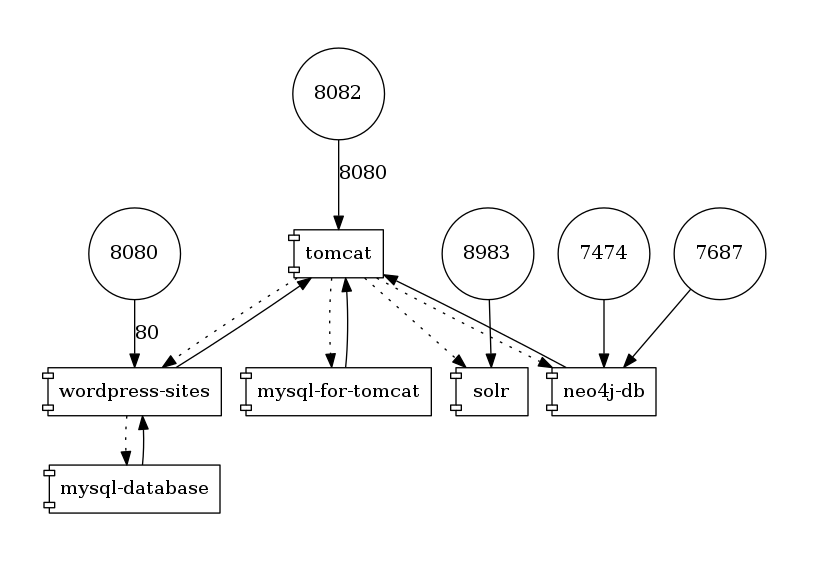
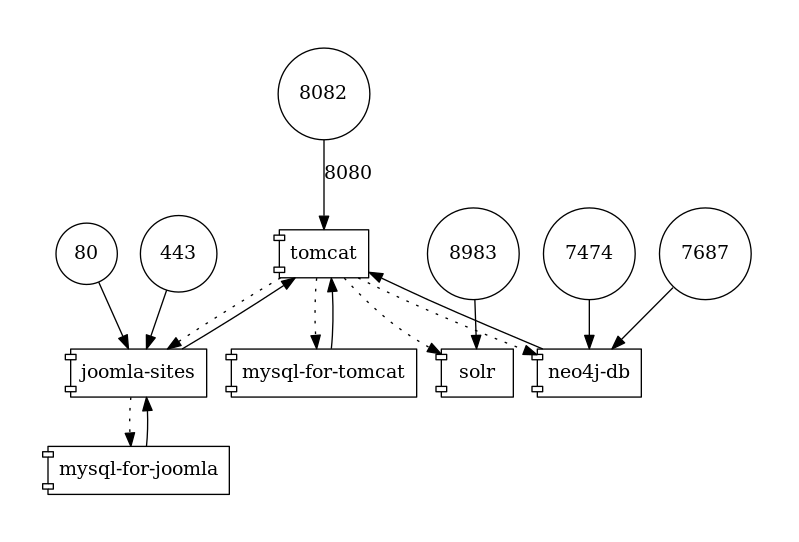
Update README and related images

diff --git a/README.md b/README.md
@@ -5,11 +5,9 @@
 - [Overview](#overview)
 - [Details](#details)
 - [Setup](#set-up)
-- [Understanding Workflow](#understanding-workflow)
-- [How to run](#how-to-run)
+- [Bulding the docker images](#Bulding-the-docker-images)
 - [How to use](#how-to-use)
-- [Configuring custom passwords](#configuring-custom-passwords)
-- [Troubleshooting](#troubleshooting)
+- [Configuration](#configuration)
 
 ## Overview
 
@@ -25,44 +23,29 @@ The graphs on this page were generated using [docker-compose-viz](https://github
 
 This project builds up a reactome server with all the required java applications inside docker containers and deploys them. A detailed view of structure of the project is shown in the image below. This image describes how files on the host are mapped inside the container.
 
-<div align="center">
-  <img src="./documentation-images/all-services.png" width="100%"/>
-</div></br>
+![All services - detailed view](./documentation-images/all-services.png)
 
 The graphical representation of each internal service is shown below
 
-<div align="center">
-  <img src="./documentation-images/tomcat.png" width="15%"/>
+Tomcat
+![Tomcat](./documentation-images/tomcat.png)
 
-  <img src="./documentation-images/wordpress-sites.png" width="15%"/>
+Joomla
+![Joomla](./documentation-images/joomla.png)
 
-  <img src="./documentation-images/mysql-for-wordpress.png" width="15%"/>
+MySQL (For Tomcat and Joomla)
+![MySQL for Tomcat and Joomla](./documentation-images/MySQL_DBs.png)
 
-  <img src="./documentation-images/mysql-for-tomcat.png" width="15%"/>
+Solr
+![Solr](./documentation-images/solr.png)
 
-  <img src="./documentation-images/solr.png" width="15%"/>
-
-  <img src="./documentation-images/neo4j-db.png" width="15%"/>
-
-
-</div>
-
-This project includes the [Reactome/Release](https://github.com/reactome/Release/) repository as a submodule. The website part and perl scripts for the server are derived from there. The Java applications required by Reactome are built from following repositories:
-
-1. [Curator Tool](https://github.com/reactome/CuratorTool)
-2. [Pathway Exchange](https://github.com/reactome/Pathway-Exchange)
-3. [RESTfulAPI](https://github.com/reactome/RESTfulAPI)
-4. [Pathway Browser](https://github.com/reactome-pwp/browser)
-5. [Diagram Exporter](https://github.com/reactome-pwp/diagram-exporter)
-6. [Content Service](https://github.com/reactome/content-service)
-7. [Data Content](https://github.com/reactome/data-content)
-8. [Search Core](https://github.com/reactome/search-core)
-9. [Analysis Tools](https://github.com/reactome/AnalysisTools)
-10. [Interactors Core](https://github.com/reactome-pwp/interactors-core)
-
+Neo4j
+![Neo4j](./documentation-images/neo4j-db.png)
 
 
 ## Set Up
+
+Before you can run this project, you need to [install docker](https://docs.docker.com/install/), then [install docker-compose](https://docs.docker.com/compose/install/), and then [install git](https://git-scm.com/book/en/v2/Getting-Started-Installing-Git) on your system.
 
 Begin with cloning the repository along with its submodule using:
 
@@ -78,117 +61,86 @@ cd container
 git submodule update --init --recursive
 ```
 
-Before you can run this project, you need to [install docker](https://docs.docker.com/engine/installation/), [install docker-compose](https://docs.docker.com/compose/install/), and [install git](https://git-scm.com/book/en/v2/Getting-Started-Installing-Git) on your system. To make this easier, an installation script for these tools is provided as [prereqs-ubuntu.sh](https://github.com/reactome/container/blob/master/prereqs-ubuntu.sh). This is a modified version of a script provided by [hyperledger/composer/prereqs-ubuntu.sh](https://hyperledger.github.io/composer/prereqs-ubuntu.sh). It can be run as:
+## Bulding the docker images
 
+A number of docker images need to be built in order to run the Reactome services. Many images are used to compile applications or create data. The diagram below illustrates the relationships between these images, and their dependencies.
+
+![Dependencies](./documentation-images/build-dependencies.png)
+
+To build the docker images, use the [`build_all.sh`](./build_all.sh) script>
+
+```bash
+bash ./build_all.sh
 ```
-cd container
-./prereqs-ubuntu.sh
-```
 
-## Understanding Workflow
-
-The workflow of project works is described in following steps:
-
-1. Download data and archives: First, we need to get the data files ready. These are downloaded by `deploy.sh -d all` or `deploy.sh -u all`.
-2. When database is ready, we need to build Java applications by `deploy.sh -b all`.
-3. Now everything is ready, and we can now start the server using `deploy.sh -r`.
-
-These three steps can be combined in one command:
-
-```
-./deploy.sh -d all -b all -r
-```
+This will build all of the intermediate images which create data or Java applications, as well as the final images which will be run as a part of your Reactome system.
 
 ## How to run
 
-The first time you run this tool, you will need to download the database files and build all the applications before we run the server. All this is managed by the `deploy.sh` script. You may just execute the given command if you are running this project for the first time:
+After all images have been built successfully, use docker-compose to create a running Reactome system:
 
-```
-./deploy.sh -d all -b all -r
-```
-
-The above command will download all database files and then build all the applications. When using this script for the first time, users are must use `-b all` to build all the applications, since some applications are dependent on others. After that users may select individual applications to build using `select` argument with `-b` flag.
-
-#### Flags used with `deploy.sh`
-
-The `./deploy.sh` script can be run with single or multiple or no flags. The usage of flags is described below:
-
- - `-d` or `--download` to Download database files. It will remove old database files (if present) and download new files from remote server. This will not include those files which can be built locally (analysis.bin and interactors.db). It will download only these files: database files (neo4j db and tomcat db ), diagrams and fireworks and solr_data.
-
- - `-d all` or `--download all` to Download all files. It will remove previous files and download new ones. The files that will be affected include: database files, diagrams and fireworks, solr_data. And due to `all` argument, it will also include: analysis.bin, interactors.db.
-
-  -  `-u` or `--update` to Update database files. It will update database files and those files which cannot be built locally. Files which can be built locally will not be affected. This flag plays a two way role. If the files are not present locally, then it downloads the files and if the remote file is newer, then local file is deleted and new one is downloaded. It is like a superset to download flag.
-
- -  `-u all` or `--update all` to Update all database files. It will include all data archives and also the files which can be built locally, for example, analysis.bin and interactors.db.
-
- - `-b` or `--build`  is Build flag. Rebuild essential war files.
-
- - `-b all` or `--build all` is Build all flag. It will build all webapps. Data files like analysis.bin and interactors.db will also be built due to the presence of `all` argument.
-
- - `-b select` or `--build select` It will allow user to select which webapps to build. By using this flag, the user will be presented with name of the services and from there user will be required to press y/n for yes/no if the service should be built or not.
-
-- `-r` or `--run` is used to run the server. This should be the last flag when you are providing a number of flags. For example, `./deploy.sh --update all --build --run` this command will update all archives, and then build the essential applications, and then start the server, while `./deploy.sh --run --update all --build` this command will just run the reactome server and then exit.
-
-- `-h` or `--help` displays a message with details of all the flags.
-
-## How to use
-
-After the data files have been downloaded and the applications have been built, it will take some time for the docker containers to get ready. When they are ready, the last output in the console will come from the tomcat server. It should look similar to this:
-
-```
-tomcat-server       | 26-Aug-2017 02:26:18.986 INFO [main] org.apache.coyote.AbstractProtocol.start Starting ProtocolHandler ["http-nio-8080"]
-tomcat-server       | 26-Aug-2017 02:26:19.004 INFO [main] org.apache.coyote.AbstractProtocol.start Starting ProtocolHandler ["ajp-nio-8009"]
-tomcat-server       | 26-Aug-2017 02:26:19.013 INFO [main] org.apache.catalina.startup.Catalina.start Server startup in 94422 ms
+```bash
+docker-compose up
 ```
 
-Once you see `Server startup in ...`, the server is ready and you can visit the following endpoints in your browser:
+You will see the output of the various containers on the console. Your Reactome system is ready for use once you see a message from the Tomcat container that says something along the lines of
 
--   `localhost:80` for The Reactome front page.
--   `localhost:8983` for Solr Admin
--   `localhost:7474` for Neo4j Admin
--   `localhost:8082/manager/html` for Tomcat Manager
+> org.apache.catalina.startup.Catalina.start Server startup in 53252 ms
 
-## Configuring custom passwords
+You can navigate to [localhost](http://localhost) and you should see the main Reactome web page.
 
-Some services require password for running and they have been provided with the default passwords in their environment file, the files having `.env` extension. The default passwords can be changed by changing the `env` file for corresponding service.
+Other local URLs that may be of interest:
 
-- **Mysql Database:** There are two MySQL databases. One used by `tomcat` and Java applications (this MySQL service will contain the main Reactome MySQL database), whose configurations are stored in `tomcat.env`, and another one used by `wordpress`, whose configurations are stored in `wordpress.env`. In both of them `root` is the default user and if you want to add another user or change the password then you can add following lines to their respective `.env` files:
+- [localhost:8983](http://localhost:8983) - Solr Admin
+- [localhost:7474](http://localhost:7474) - Neo4j Admin
+- [localhost:8082](http://localhost:8082) - Tomcat Manager
 
-  ```
-  MYSQL_USER=<you_user_name>
-  MYSQL_PASSWORD=<you_password>
-  ```
+Use <kbd>Ctrl</kbd> - <kbd>C</kbd> to terminate the running system.
 
-  **Mysql for tomcat** If you change configurations for the database used by `tomcat`, modify `tomcat.env`, and make sure that following files are also updated:
-  - Update constructor arguments for `bean id="dba"` at  [application-context](https://github.com/reactome/container/blob/master/java-application-builder/mounts/applicationContext.xml#L14)
-  - Update values of `-u` and `-p` in AnalysisBin() in [maven_builds.sh](https://github.com/reactome/container/blob/master/java-application-builder/maven_builds.sh#L89)
+You can run docker-compose without `-d` flag once you have confirmed that your setup works correctly. `-d` runs docker-compose as a background process, so you won't see the output on the console.
+When you run use `-d`, shutting down the system requires an explicit docker-compose command:
 
-  **Mysql for wordpress** If you are changing password for wordpress database, you can do it by changing `wordpress.env`
-   - Update username and password at [wordpress/secrets.pm#L14](https://github.com/reactome/container/blob/develop/wordpress/Secrets.pm#L14)
+```bash
+docker-compose stop
+```
 
-- **Tomcat Admin:** Its users and their passwords can be modified in [tomcat-users.xml#L46](https://github.com/reactome/container/blob/master/tomcat/tomcat-users.xml#L46).
+It is recommended that you become familiar with other docker & docker-compose commands, in order for you to efficiently work with dockerized tools.
 
-- **Neo4j Admin:** Its password can be changed in [neo4j.env](https://github.com/reactome/container/blob/master/neo4j.env#L1) by modifying first line to: `NEO4J_AUTH=<new_user>/<new_password>`
-Note: If you modify password of neo4j, then make sure to update changes at
-   - [content-service-pom.xml#L26](https://github.com/reactome/container/blob/master/java-application-builder/mounts/content-service-pom.xml#L26)
-   - [data-content-pom.xml#L36](https://github.com/reactome/container/blob/master/java-application-builder/mounts/data-content-pom.xml#L36)
+## Configuration
 
-- **Solr Admin:**  Its default username and password are "solr"/"solr". This is set in the file [solr/solr-security.json](./solr/solr-security.json). To change this, follow the instructions here:
+There are some aspects of this system that can be configured.
 
-  https://lucene.apache.org/solr/guide/6_6/basic-authentication-plugin.html#BasicAuthenticationPlugin-AddaUserorEditaPassword
+### Release number
 
-  You will also need to update [content-service-pom.xml](https://github.com/reactome/container/blob/develop/java-application-builder/mounts/content-service-pom.xml#L28) and [data-content-pom](https://github.com/reactome/container/blob/develop/java-application-builder/mounts/data-content-pom.xml#L41)
+You can configure the release number that will be used when build and running the system. The main place to configure this is in `build_all.sh`. Set the `RELEASE_NUMBER` variable to the Release number that you want to use.
 
-- **Wordpress:** The username and password for wordpress-admin can be modified by executing following command when the server is running.
+### Passwords
 
-  ```
-  docker exec -i mysql-database mysql --user=<username_from_wordpress.env> --password=<password_from_wordpress.env> wordpress <<< "UPDATE wp_users SET user_login = 'user_name', user_pass = MD5('password') where id=1;"
-  ```
+You can configure some passwords for this system.
 
-  The changes will be made by service named `mysql-database` and changes will reside in database file internal to `mysql-database` container. If this container is removed, the customized username and password will also get removed.
+___
+:warning:
+_If you plan to run this system on a publicly acccessible system, it is  **STRONGLY** recommended that you change the passwords._
+___
 
-## Troubleshooting
+#### Neo4j
+This password is ininitiall set in the `build_all.sh` script, and propagated to other components that need it. Set the `NEO4J_USER` and `NEO4J_PASSWORD` to your own values.
 
-There are two main applications for use in the repository, one is to build the java applications and other is to run the reactome server. The logs related to build process of java application are stored in `logs/build_webapps.log` and other logs are stored in their specific folder withing `logs` directory. These logs should help you when troubleshooting the components of this applications.
+Also be sure to update [./neo4j.env](./neo4j.env).
 
-If you are experiencing memory-related issues, you can adjust memory settings (such as `-Xmx` and `-Xms`) by modifying `JAVA_OPTS` in `tomcat.env` file.
+#### Solr
+The password for the solr user is stored in [./solr/solr-security.json](./solr/solr-security.json). See https://lucene.apache.org/solr/guide/6_6/authentication-and-authorization-plugins.html for more information about how Solr handles security to learn how to modify this file. By default, the password is `solr`, you should change this.
+
+#### Tomcat
+The password for the tomcat admin user is found in [./tomcat/tomcast-users.xml](./tomcat/tomcast-users.xml). By default, the admin user is configured as
+
+```xml
+<user username="tomcat" password="tomcat-admin" roles="manager-gui"/>
+```
+
+You should change the username and the password.
+
+#### MySQL
+The MySQL containers should not have any publicly exposed ports when running. However, if you want to change the password for the database used by Tomcat, that can be set in [./mysql/mysql.dockerfile](./mysql/mysql.dockerfile); set the `MYSQL_ROOT_PASSWORD` variable. It will also need to be set in [./neo4j/neo4j_generated_from_mysql.dockerfile](./neo4j/neo4j_generated_from_mysql.dockerfile). Also be sure to update [./tomcat.env](./tomcat.env).
+
+For Joomla, you will need to set the passwords in [./joomla.env](./joomla.env).
